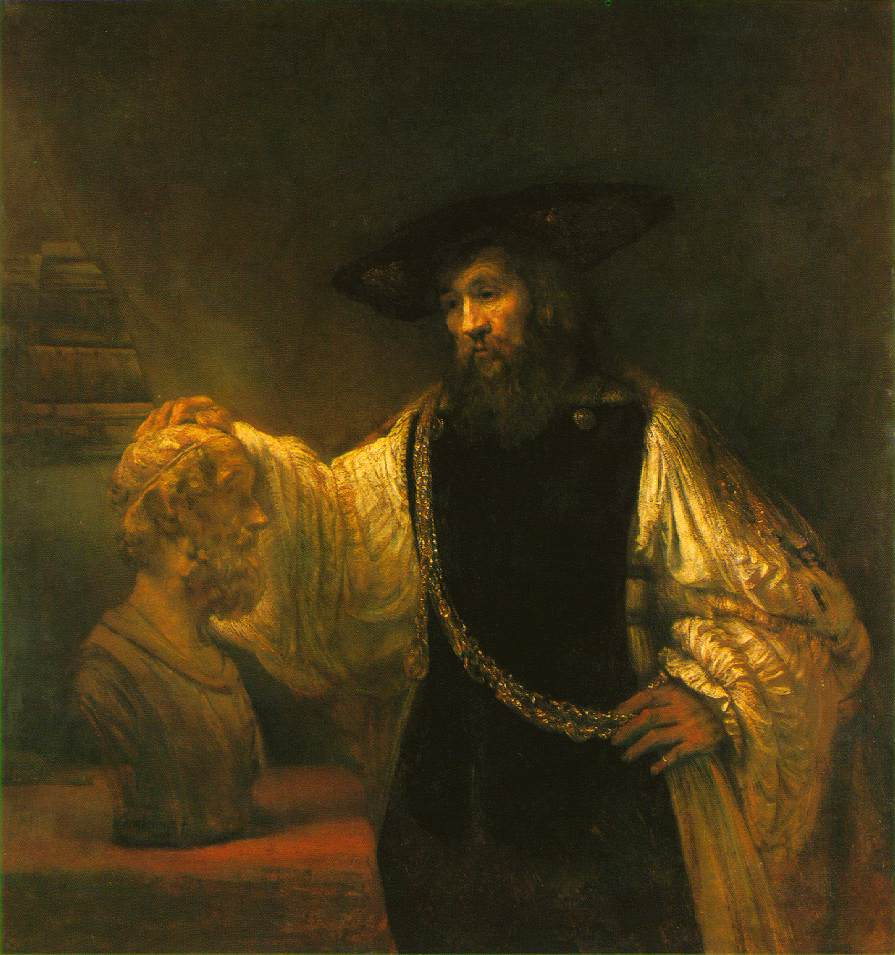
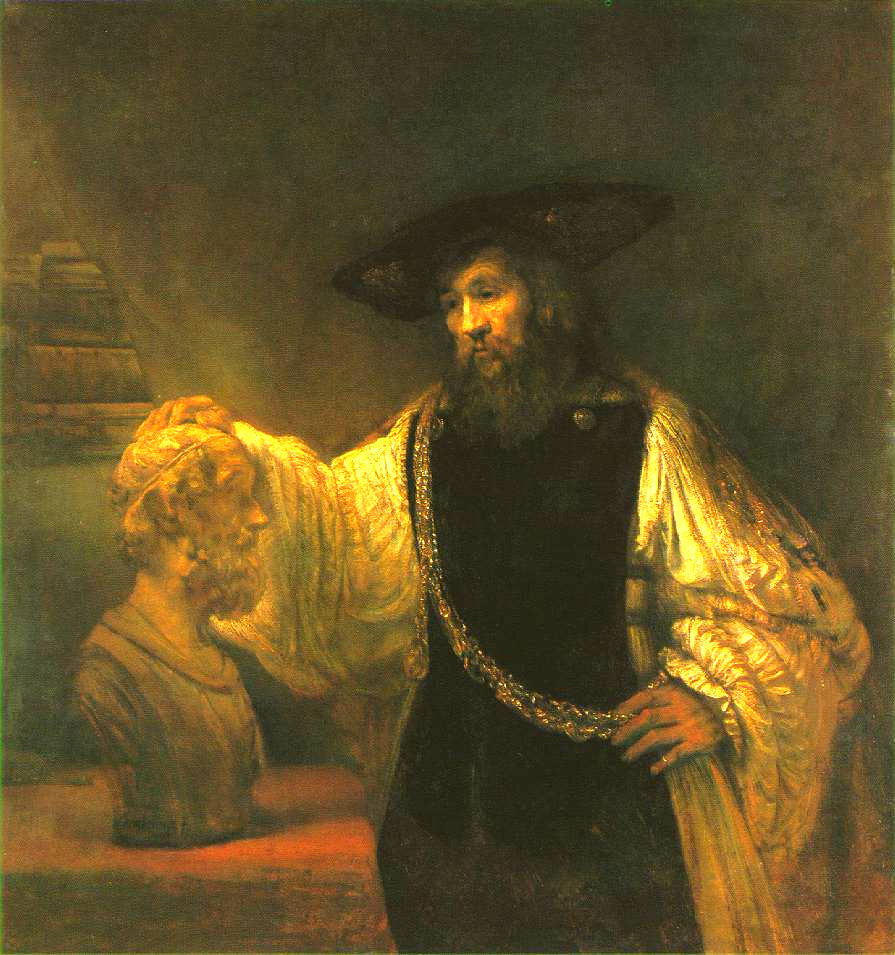
Make Rembrandt image clearer

diff --git a/layouts/default.vue b/layouts/default.vue
@@ -17,7 +17,8 @@
           <p>
             {{ $siteConfig.siteName }} is attempting to intepret and undestand
             complex films, just as Aristotle, laying his hands on a bust of
-            Homer, is trying to get an understanding of the poet's texts.
+            Homer, is trying to get an understanding of the poet's texts in this
+            Rembrandt painting.
           </p>
           <h3 class="subtitle">
             Chronicles
